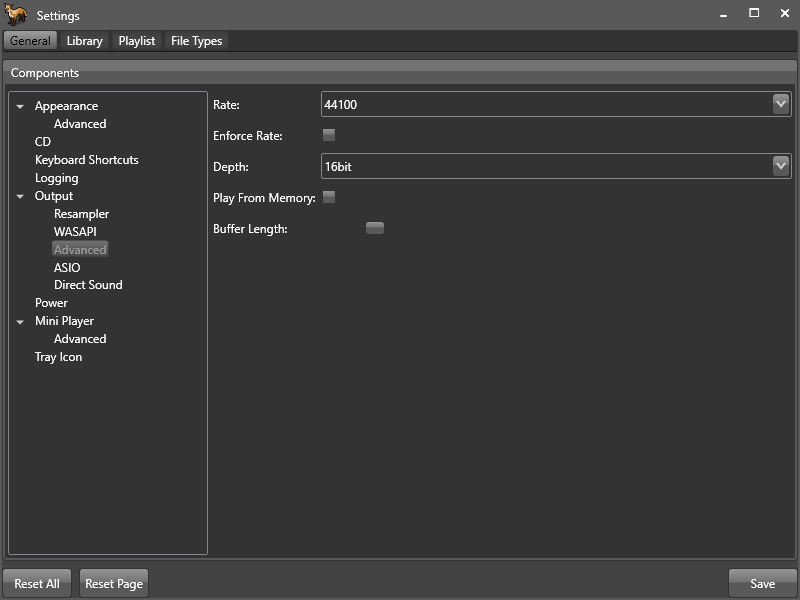
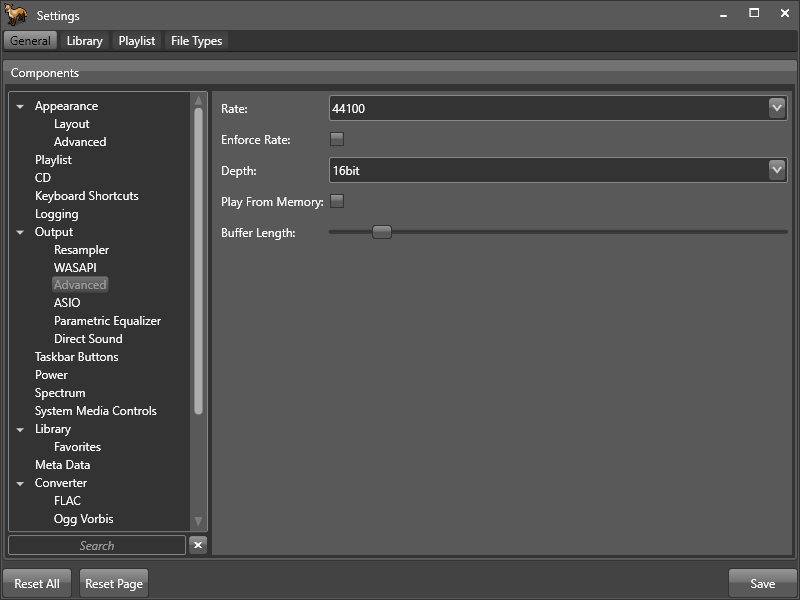
Updates readme and settings screenshot.

diff --git a/README.md b/README.md
@@ -1,7 +1,7 @@
 # FoxTunes
 A modular music player using the BASS framework.
 
-The main release is [FoxTunes-2.0.2-net461.zip](https://github.com/aidan-g/FoxTunes/releases/download/2.0.1/FoxTunes-2.0.2-net461.zip)
+The main release is [FoxTunes-2.0.4-net461.zip](https://github.com/aidan-g/FoxTunes/releases/download/2.0.4/FoxTunes-2.0.4-net461.zip)
 
 ![Main](Media/Screenshots/Main.PNG)
 
@@ -23,6 +23,8 @@ Includes a mini player with optional artwork and playlist.
 ![Mini A](Media/Screenshots/MiniPlayerA.PNG)
 ![Mini B](Media/Screenshots/MiniPlayerB.PNG)
 
+Can be used with file associations and the "Send to" explorer action. 
+
 A Windows XP compatibile .NET 4.0 build is available, can be configured minimally.
 It needs at least;
 * [KB2468871](http://support.microsoft.com/kb/2468871) - Portable class libraries patch.
@@ -30,23 +32,20 @@ It needs at least;
 
 ![Minimal](Media/Screenshots/Minimal.PNG)
 
-Stock plugins;
+Various optional plugins are available;
 
-* SQLite - Use SQLite for database functions.
-* TagLib - Use TagLib for meta data functions.
+* ASIO - Low latency exclusive output, supports DSD direct.
+* CD - Play audio CDs from a physical drive.
+* DSD - Required for DSD direct.
+* DTS - Play .dts multi channel format.
 * DirectSound - Use standard windows audio session for output.
 * Javascript - Use JS for scriptable elements.
 * Logging - Use Log4Net logging back-end. Can be configured and disabled.
-* Config - Use binary config file.
-
-Various optional plugins are available;
-
-* Windows - Global key bindings (Multi media keys), system tray icon.
-* SqlServer - Use Microsoft SQL Server for database functions.
-* SimpleMetaData - A meta data provider using the file path and regular expressions. Recommended for older systems.
-* ASIO - Low latency exclusive output, supports DSD direct.
-* WASAPI - Windows Audio Session API output.
-* DSD - Required for DSD direct.
-* DTS - Play .dts multi channel format.
-* CD - Play audio CDs from a physical drive.
+* ParametricEqualizer - A ten band parametric equalizer.
 * Resampler - SOXR based high quality configurable resampler. Can perform up/down sampling.
+* SQLite - Use SQLite for database functions.
+* SimpleMetaData - A meta data provider using the file path and regular expressions. Recommended for older systems.
+* SqlServer - Use Microsoft SQL Server for database functions.
+* TagLib - Use TagLib for meta data functions.
+* WASAPI - Windows Audio Session API output.
+* Windows - Global key bindings (Multi media keys), system tray icon, system media transport controls, taskbar controls.
